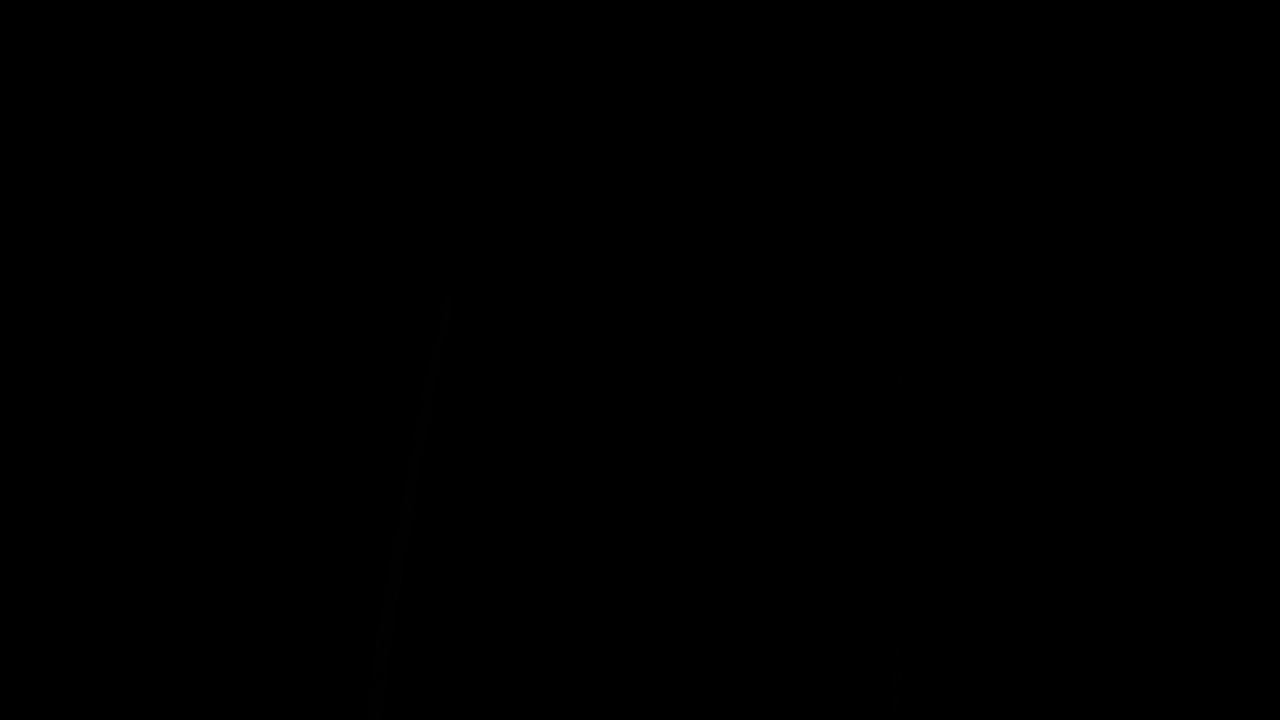
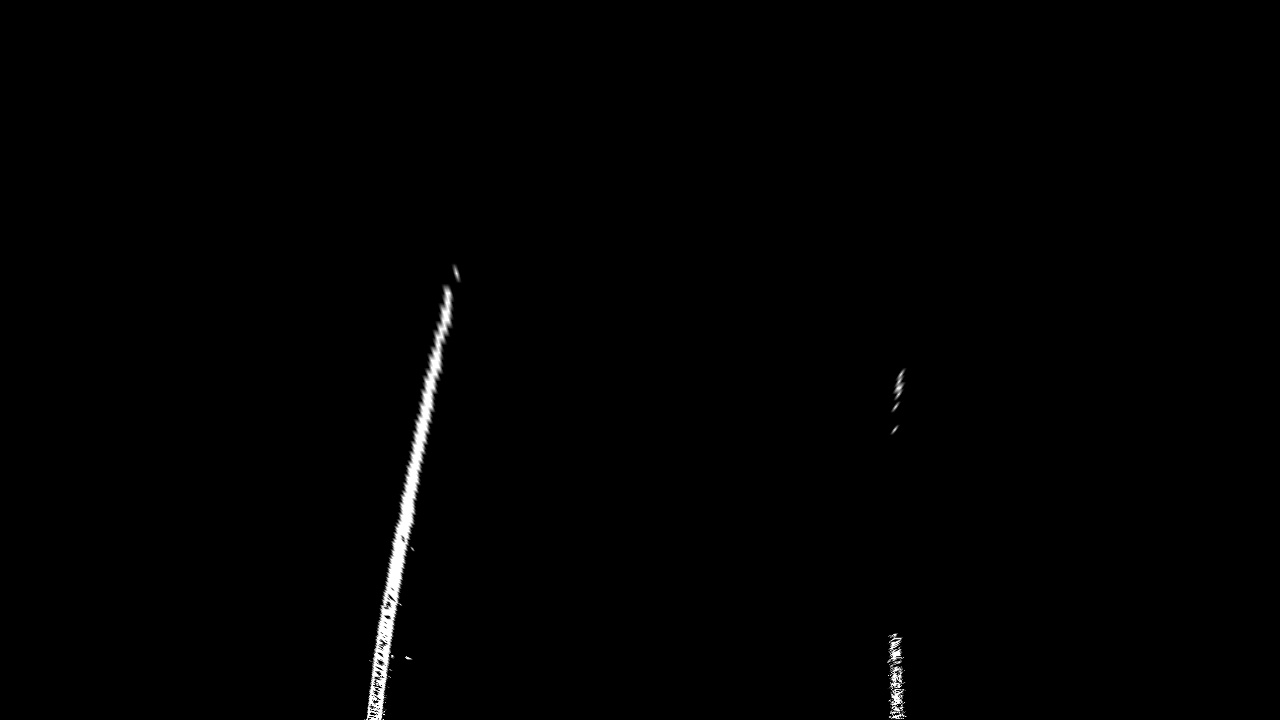
update

Changed region(s): [[0.2812, 0.3667, 0.375, 1.0], [0.6875, 0.8861, 0.7188, 1.0], [0.6875, 0.5194, 0.7188, 0.55]]

diff --git a/main.py b/main.py
@@ -446,7 +446,7 @@ def proc_pipeline(objpoints, imgpoints, img, save_interm_results = 0, name = '',
     # Make binary image, crop to ROI, and save results.
     proc_img = make_binary_image(proc_img)
     if save_interm_results:
-        cv2.imshow('img', proc_img)
+        cv2.imshow('bin', proc_img)
         cv2.waitKey(500)
         cv2.destroyAllWindows()
         out_path = os.path.join(outdir, name + '_bin' + '.jpg')
@@ -470,13 +470,18 @@ def proc_pipeline(objpoints, imgpoints, img, save_interm_results = 0, name = '',
     # Make perspective transformed image on the Hough image.
     M, Minv = get_warp_params(img, src, dst)
     proc_img = warper(proc_img, M)
+    proc_img = proc_img * 255
     if save_interm_results:
-        cv2.imshow('img', proc_img)
+        cv2.imshow('bin_transform', proc_img)
         cv2.waitKey(500)
         cv2.destroyAllWindows()
         out_path = os.path.join(outdir, name + '_bin_transform' + '.jpg')
         cv2.imwrite(out_path, proc_img)
 
+    print('***')
+    print(type(proc_img))
+    print(np.amax(proc_img))
+    print(np.amin(proc_img))
 #    masked_canny_blur_gray = region_of_interest(canny_blur_gray, vertices)
 
 
